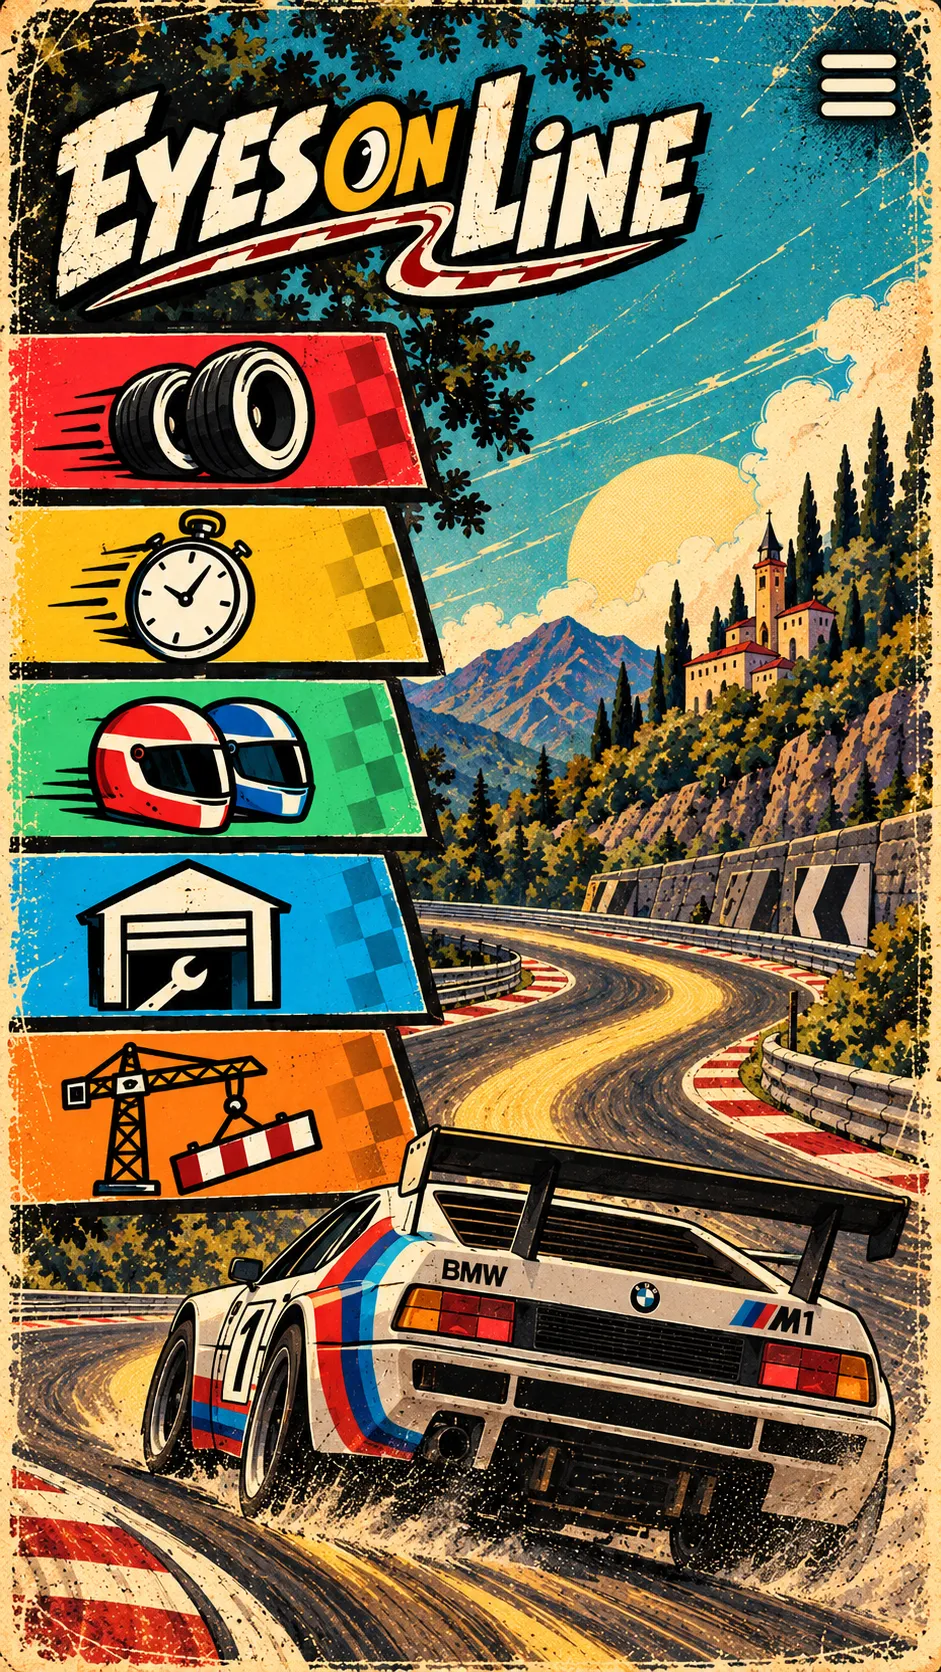
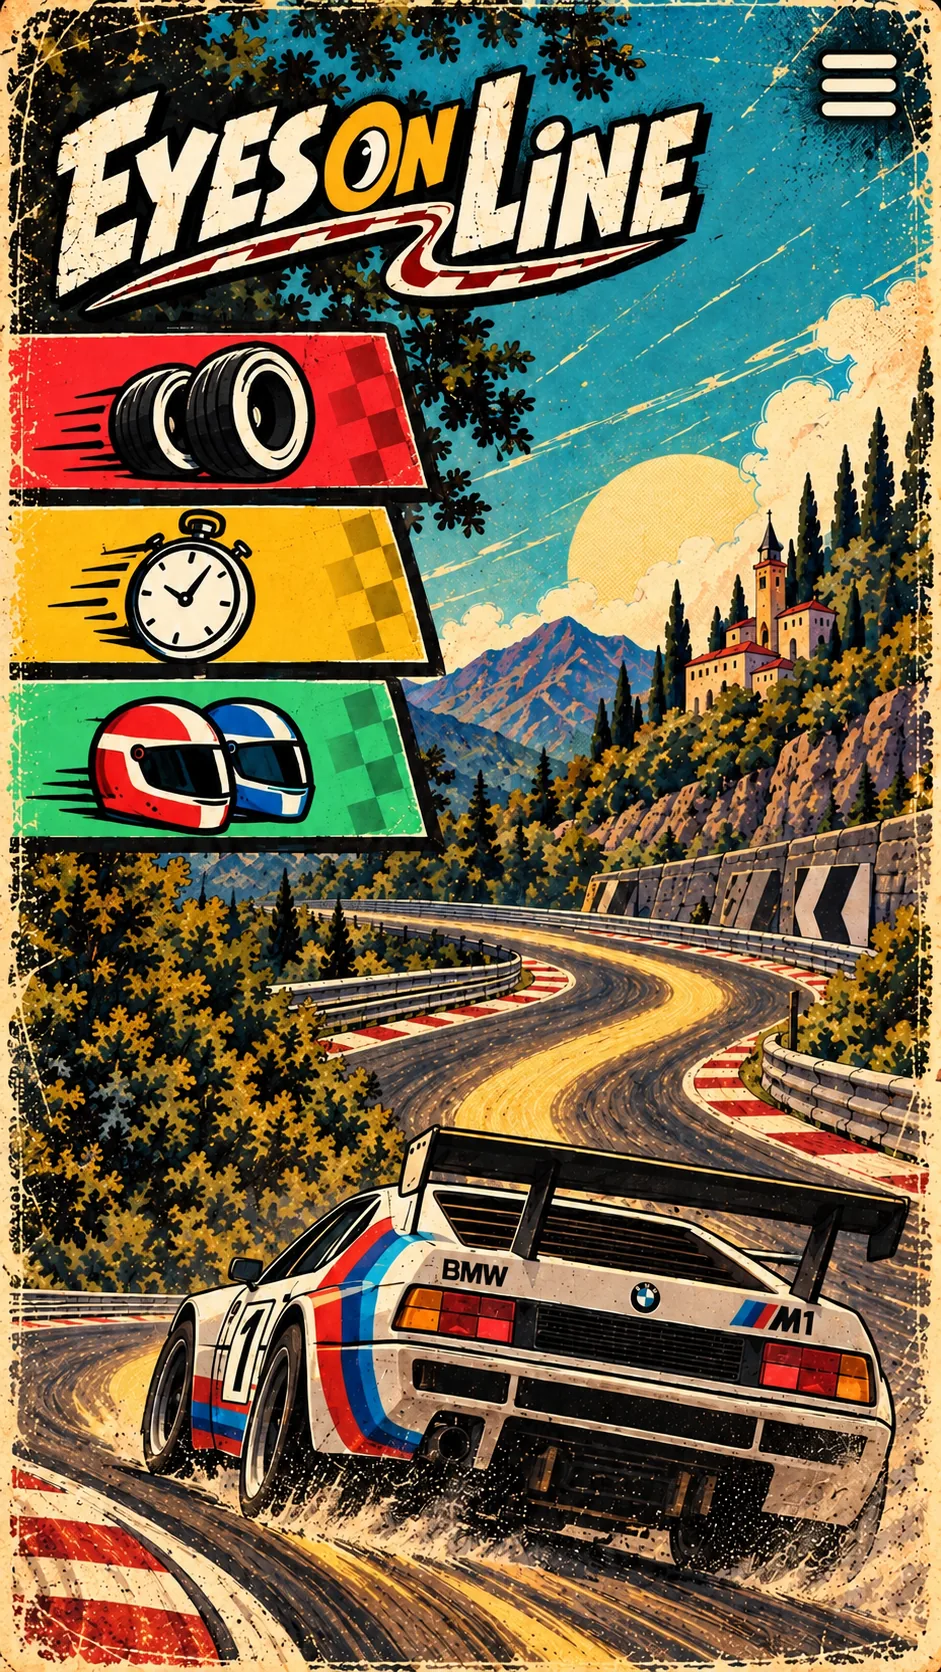
Retirer l'atelier voiture et l'atelier circuits du menu
Le menu passe de cinq bandeaux à trois : course rapide, contre-la-montre,
multijoueurs.

Retirer les deux lignes de `js/ui.js` n'aurait pas suffi. Les bandeaux repliés
sont peints dans le fond — c'est tout l'intérêt du dépliage, le bandeau fermé
est vraiment dessous — donc deux bandeaux seraient restés sur l'affiche sans
mener nulle part. C'est l'affiche elle-même qui est refaite sans eux. Les trois
qui restent n'ont pas bougé d'un pixel : 20,04 / 30,38 / 40,79 %, les mêmes
chiffres qu'avant.

Ce qui est retiré est l'entrée, pas la fonction. `_act` garde ses cas,
`editor.html` et `lignes.html` répondent toujours à leur adresse, les voitures
et les circuits déjà enregistrés se choisissent toujours en course, et les
dessins dépliés dorment dans `art/menu/`. Le lien « éditeur → » de l'écran de
départ part avec : laisser l'atelier à une tape de distance n'aurait rien
désactivé du tout.

Reste le défaut que cette page peut avoir et que rien ne montrait. Les boutons
sont des rectangles transparents posés à des hauteurs écrites à la main ; rien
ne les lie aux bandeaux peints. Refaire l'affiche décale les cibles sans rien
casser ni rien afficher de faux — on clique à côté, et une capture n'en montre
rien puisque les boutons sont invisibles.

`tools/e2e-menu.js` lit donc le fond lui-même, sur une seule colonne, à 6 % du
bord gauche : le seul endroit où un bandeau est une couleur franche et rien
d'autre. Une première version cherchait des bandes sur tout le tiers gauche et
[…]

diff --git a/tools/e2e-menu.js b/tools/e2e-menu.js
@@ -1,20 +1,42 @@
-// Le menu-affiche : les cinq bandeaux, leur dépliage, et ce sur quoi ils mènent.
+// Le menu-affiche : les bandeaux, leur dépliage, et ce sur quoi ils mènent.
 //
 //   NODE_PATH=$(npm root -g) node tools/e2e-menu.js [dossier]
 //
-// Vérifie que les cinq bandeaux sont là et cliquables, que chacun a bien chargé son dessin déplié
+// Vérifie que les bandeaux sont là et cliquables, que chacun a bien chargé son dessin déplié
 // (et non un cadre vide), qu'ils restent REPLIÉS tant qu'on n'y touche pas, qu'un appui en ouvre
-// un seul, et que chacun mène où il doit.
+// un seul, que chacun tombe sur le bandeau peint dans l'affiche, et qu'il mène où il doit.
 const { chromium, devices } = require('playwright');
+const http = require('http');
+const fs = require('fs');
+const path = require('path');
 const out = process.argv[2] || '/tmp';
+
+/* Servi en HTTP, et non depuis le disque.
+
+Sous `file://` toute image vient d'une autre origine, donc la lire dans un canvas est interdit :
+la mesure des bandeaux peints ne peut pas se faire. C'est la même leçon que pour le moteur à
+échantillon, dont la rampe ne se charge pas non plus sous `file://` — un essai qui ne voit pas ce
+qu'il veut mesurer ne mesure rien. Et c'est en HTTP que le jeu est réellement servi. */
+const ROOT = path.join(__dirname, '..');
+const TYPES = { '.html': 'text/html', '.js': 'text/javascript', '.css': 'text/css', '.png': 'image/png',
+  '.webp': 'image/webp', '.json': 'application/json', '.wav': 'audio/wav', '.mp3': 'audio/mpeg' };
+const serveur = http.createServer((req, res) => {
+  const f = path.join(ROOT, decodeURIComponent(req.url.split('?')[0]));
+  if (!f.startsWith(ROOT) || !fs.existsSync(f) || fs.statSync(f).isDirectory()) { res.writeHead(404); return res.end(); }
+  res.writeHead(200, { 'Content-Type': TYPES[path.extname(f)] || 'application/octet-stream' });
+  fs.createReadStream(f).pipe(res);
+});
+
 (async () => {
+  await new Promise((r) => serveur.listen(0, r));
+  const base = `http://127.0.0.1:${serveur.address().port}`;
   const browser = await chromium.launch();
   const ctx = await browser.newContext({ ...devices['iPhone 13'] });
   const page = await ctx.newPage();
   let errs = 0;
   page.on('pageerror', (e) => { if (errs++ < 4) console.log('[pageerror]', e.message); });
   page.on('console', (m) => { if (m.type() === 'error') { errs++; console.log('[console]', m.text()); } });
-  await page.goto('file:///home/user/Slot_car_racing/index.html');
+  await page.goto(`${base}/index.html`);
   await page.waitForTimeout(400);
   await page.keyboard.press('Enter');          // l'écran-titre
 
@@ -51,6 +73,85 @@ const out = process.argv[2] || '/tmp';
     };
   });
   console.log(JSON.stringify(etat, null, 0));
+
+  /* Chaque bouton tombe-t-il sur son bandeau ?
+
+  C'est le seul défaut de ce menu qu'aucune autre vérification ne peut voir. Les bandeaux repliés
+  sont PEINTS dans le fond, et les boutons sont des rectangles transparents posés par-dessus à des
+  hauteurs écrites à la main dans `js/ui.js`. Rien ne lie les deux : refaire l'affiche, ou changer
+  un chiffre, décale les cibles sans rien casser ni rien afficher de faux — on clique simplement à
+  côté, et une capture d'écran n'en montre rien puisque les boutons sont invisibles.
+
+  On lit donc le fond lui-même, sur UNE colonne, à 6 % du bord gauche. C'est le seul endroit où un
+  bandeau est une couleur franche et rien d'autre : plus à droite viennent les traits de vitesse,
+  l'icône, le damier, et une première version qui cherchait des bandes sur tout le tiers gauche se
+  faisait couper par l'icône — elle voyait deux bandeaux sur trois et en inventait un quatrième
+  dans les arbres. Sur cette colonne, un bandeau est une suite de lignes saturées et de couleur
+  CONSTANTE ; c'est la constance qui écarte le vibreur rouge et blanc du bas de l'affiche, texturé
+  (écart-type 72) là où un bandeau est plat (23 au pire).
+
+  Ce détecteur se vérifie lui-même : passé sur l'affiche d'avant, à cinq bandeaux, il retrouve les
+  cinq hauteurs écrites alors dans `ui.js` — 20,2 / 30,4 / 40,9 / 51,3 / 61,8 %.
+
+  Ce qu'on compare est le HAUT du bandeau et le haut du bouton, et pas leur recouvrement : les
+  bandeaux sont des parallélogrammes qui descendent vers la droite, donc sur cette colonne on ne
+  voit que leur début. Or le haut est justement le nombre qu'on écrit à la main. */
+  const cibles = await page.evaluate(() => {
+    const img = document.querySelector('.stage .bg');
+    const c = document.createElement('canvas');
+    c.width = img.naturalWidth; c.height = img.naturalHeight;
+    c.getContext('2d').drawImage(img, 0, 0);
+    const x = Math.round(c.width * 0.06);
+    const d = c.getContext('2d').getImageData(x, 0, 1, c.height).data;
+    const px = (y) => [d[y * 4], d[y * 4 + 1], d[y * 4 + 2]];
+    const bandes = []; let deb = null;
+    const clore = (fin) => {
+      if (deb === null) return;
+      if ((fin - deb) / c.height >= 0.04) {
+        const n = fin - deb;
+        const moy = [0, 1, 2].map((k) => { let t = 0; for (let y = deb; y < fin; y++) t += px(y)[k]; return t / n; });
+        const ec = Math.max(...[0, 1, 2].map((k) => {
+          let t = 0; for (let y = deb; y < fin; y++) { const v = px(y)[k] - moy[k]; t += v * v; }
+          return Math.sqrt(t / n);
+        }));
+        if (ec < 35) bandes.push({ haut: deb / c.height, bas: fin / c.height, ec: +ec.toFixed(1),
+                                   couleur: moy.map((v) => Math.round(v)) });
+      }
+      deb = null;
+    };
+    for (let y = 0; y < c.height; y++) {
+      const [r, g, b] = px(y);
+      const mx = Math.max(r, g, b), mn = Math.min(r, g, b);
+      if (mx - mn > 90 && mx > 110) { if (deb === null) deb = y; } else clore(y);
+    }
+    clore(c.height);
+    const st = document.querySelector('.stage').getBoundingClientRect();
+    const boutons = [...document.querySelectorAll('.screen.poster .mi')].map((b) => {
+      const r = b.getBoundingClientRect();
+      return { haut: (r.top - st.top) / st.height, ou: b.getAttribute('aria-label') };
+    });
+    return { bandes, boutons };
+  });
+  let decales = 0;
+  const pris = new Set();
+  for (const b of cibles.boutons) {
+    let best = -1, ecart = 9;
+    cibles.bandes.forEach((z, i) => { const e = Math.abs(z.haut - b.haut); if (e < ecart) { ecart = e; best = i; } });
+    const bon = ecart <= 0.01;
+    if (bon) pris.add(best); else decales++;
+    console.log(`  ${b.ou.padEnd(18)} bouton à ${(100 * b.haut).toFixed(2)} %, bandeau peint à `
+      + `${best < 0 ? '—' : (100 * cibles.bandes[best].haut).toFixed(2) + ' %'}`
+      + ` → ${(100 * ecart).toFixed(2)} point d'écart`
+      + (bon ? '' : '  ← LE BOUTON N\'EST PAS SUR SON BANDEAU'));
+  }
+  // un bandeau peint que personne ne réclame est une entrée morte imprimée sur l'affiche
+  cibles.bandes.forEach((z, i) => {
+    if (pris.has(i)) return;
+    decales++;
+    console.log(`  bandeau peint à ${(100 * z.haut).toFixed(2)} % rgb(${z.couleur}) SANS BOUTON`
+      + '  ← un bandeau sur l\'affiche qui ne mène nulle part');
+  });
+  if (decales) errs++;
 
   // chaque bandeau mène-t-il où il doit ?
   const routes = [
@@ -120,5 +221,6 @@ const out = process.argv[2] || '/tmp';
 
   console.log('erreurs', errs);
   await browser.close();
+  serveur.close();
   process.exit(errs ? 1 : 0);
 })();

diff --git a/js/ui.js b/js/ui.js
@@ -269,7 +269,7 @@ class UI {
     `, 'center splash');
   }
 
-  /* The menu is the poster, and the five banners on it are the buttons. Each one is printed in
+  /* The menu is the poster, and the banners on it are the buttons. Each one is printed in
   its folded state — icon and a checkered tail, no words — in the background image itself; the
   unfolded artwork, the one that carries the text, is laid over it and wiped in from the left.
   So the fold is not a trick played on one image: the closed banner really is underneath, and the
@@ -279,6 +279,18 @@ class UI {
   from its own artwork. Matching each folded banner's measured height instead looked more rigorous
   and was worse: the icons overhang their bars by different amounts, so those heights disagree by
   ten per cent between banners and the stack came out ragged. */
+  /* L'atelier voiture et l'atelier circuits ne sont plus au menu.
+
+  Un bouton retiré d'une liste laisserait son bandeau peint sur l'affiche, donc un trou de deux
+  bandeaux muets — le fond porte les bandeaux repliés, c'est tout l'intérêt du dépliage. C'est donc
+  l'affiche elle-même qui a été refaite sans eux, et les trois qui restent n'ont pas bougé d'un
+  pixel : 20,04 / 30,38 / 40,79 %, les mêmes qu'avant. `tools/e2e-menu.js` mesure les bandeaux
+  peints dans le fond et vérifie que chaque bouton tombe dessus, ce qui est la seule façon de
+  s'apercevoir qu'un chiffre et un dessin ont cessé de se correspondre.
+
+  Les deux écrans, eux, restent : `_act` garde leurs cas, `editor.html` et `lignes.html` répondent
+  toujours à leur adresse, et les dessins dépliés dorment dans `art/menu/`. Ce qui est retiré est
+  l'entrée du menu, pas la fonction. */
   menu() {
     const t = (k) => this.t(k);
     // top of each banner, as measured on the poster; `fold` is the artwork that carries the text
@@ -286,8 +298,6 @@ class UI {
       { top: 20.04, fold: 'course-rapide', act: 'setup', mode: 'race', label: t('quickRace') },
       { top: 30.38, fold: 'contre-la-montre', act: 'setup', mode: 'timetrial', label: t('timeTrial') },
       { top: 40.79, fold: 'multijoueurs', act: 'multi', label: t('multi') },
-      { top: 51.08, fold: 'atelier-voiture', act: 'workshop', label: t('workshop') },
-      { top: 61.72, fold: 'atelier-circuits', act: 'editor', label: t('editor') },
     ];
     const band = (it, i) => `<button class="mi" style="top:${it.top}%;--i:${i}"
         data-action="${it.act}" ${it.mode ? `data-mode="${it.mode}"` : ''} aria-label="${escapeHtml(it.label)}">
@@ -353,7 +363,10 @@ class UI {
             <img alt="" src="${this.thumb(tr, 90)}"><b>${tr.flag} ${tr.name}</b><small>${locked ? t('locked') : `${lapsFor(tr, cat)} ${t('laps')} · ${tr.length} m`}</small></button>`;
         }).join('')}
       </div>
-      <h3>${t('customTracks')} <button class="link" data-action="editor">${t('editor')} →</button></h3>
+      <!-- Le lien vers l'atelier circuits est retiré avec son bandeau du menu : le laisser ici
+           aurait laissé l'atelier à une tape de distance, et n'aurait donc rien désactivé du tout.
+           La liste des circuits perso reste, elle : ceux déjà enregistrés se choisissent toujours. -->
+      <h3>${t('customTracks')}</h3>
       <div class="grid tracks">
         ${app.custom.tracks.length ? app.custom.tracks.map(tr => `<button class="card ${tr.id === st.trackId ? 'sel' : ''}" data-action="pickTrack" data-id="${tr.id}">
             <img alt="" src="${this.thumb(tr, 90)}"><b>${tr.flag || '🏁'} ${escapeHtml(tr.name)}</b><small>${lapsFor(tr, cat)} ${t('laps')}</small></button>`).join('') : `<p class="muted">${t('noCustomTracks')}</p>`}

diff --git a/index.html b/index.html
@@ -7,28 +7,28 @@
   <meta name="mobile-web-app-capable" content="yes">
   <meta name="theme-color" content="#0f1117">
   <title>Eyes On Line</title>
-  <link rel="stylesheet" href="css/style.css?v=0.21.29">
+  <link rel="stylesheet" href="css/style.css?v=0.21.30">
 </head>
 <body>
   <canvas id="game"></canvas>
   <div id="ui" class="hidden"></div>
 
-  <script src="js/version.js?v=0.21.29"></script>
-  <script src="js/util.js?v=0.21.29"></script>
-  <script src="js/tracks.js?v=0.21.29"></script>
-  <script src="js/track.js?v=0.21.29"></script>
-  <script src="js/cars.js?v=0.21.29"></script>
-  <script src="js/carart.js?v=0.21.29"></script>
-  <script src="js/car.js?v=0.21.29"></script>
-  <script src="js/race.js?v=0.21.29"></script>
-  <script src="js/career.js?v=0.21.29"></script>
-  <script src="js/store.js?v=0.21.29"></script>
-  <script src="js/props.js?v=0.21.29"></script>
-  <script src="js/room-rtc.js?v=0.21.29"></script>
-  <script src="js/net.js?v=0.21.29"></script>
-  <script src="js/render.js?v=0.21.29"></script>
-  <script src="js/audio.js?v=0.21.29"></script>
-  <script src="js/ui.js?v=0.21.29"></script>
-  <script src="js/main.js?v=0.21.29"></script>
+  <script src="js/version.js?v=0.21.30"></script>
+  <script src="js/util.js?v=0.21.30"></script>
+  <script src="js/tracks.js?v=0.21.30"></script>
+  <script src="js/track.js?v=0.21.30"></script>
+  <script src="js/cars.js?v=0.21.30"></script>
+  <script src="js/carart.js?v=0.21.30"></script>
+  <script src="js/car.js?v=0.21.30"></script>
+  <script src="js/race.js?v=0.21.30"></script>
+  <script src="js/career.js?v=0.21.30"></script>
+  <script src="js/store.js?v=0.21.30"></script>
+  <script src="js/props.js?v=0.21.30"></script>
+  <script src="js/room-rtc.js?v=0.21.30"></script>
+  <script src="js/net.js?v=0.21.30"></script>
+  <script src="js/render.js?v=0.21.30"></script>
+  <script src="js/audio.js?v=0.21.30"></script>
+  <script src="js/ui.js?v=0.21.30"></script>
+  <script src="js/main.js?v=0.21.30"></script>
 </body>
 </html>

diff --git a/lignes.html b/lignes.html
@@ -4,7 +4,7 @@
 <meta charset="utf-8">
 <meta name="viewport" content="width=device-width, initial-scale=1">
 <title>Eyes On Line — Éditeur de lignes</title>
-<link rel="stylesheet" href="css/style.css?v=0.21.29">
+<link rel="stylesheet" href="css/style.css?v=0.21.30">
 <style>
   body { overflow: hidden; }
   #ed { position: fixed; inset: 0; display: grid; grid-template-columns: 320px 1fr; }
@@ -92,10 +92,10 @@
   <canvas id="cv"></canvas>
 </div>
 
-<script src="js/store.js?v=0.21.29"></script>
-<script src="js/util.js?v=0.21.29"></script>
-<script src="js/tracks.js?v=0.21.29"></script>
-<script src="js/track.js?v=0.21.29"></script>
-<script src="js/lignes.js?v=0.21.29"></script>
+<script src="js/store.js?v=0.21.30"></script>
+<script src="js/util.js?v=0.21.30"></script>
+<script src="js/tracks.js?v=0.21.30"></script>
+<script src="js/track.js?v=0.21.30"></script>
+<script src="js/lignes.js?v=0.21.30"></script>
 </body>
 </html>

diff --git a/editor.html b/editor.html
@@ -4,7 +4,7 @@
   <meta charset="utf-8">
   <meta name="viewport" content="width=device-width, initial-scale=1">
   <title>Eyes On Line — Éditeur de circuits</title>
-  <link rel="stylesheet" href="css/style.css?v=0.21.29">
+  <link rel="stylesheet" href="css/style.css?v=0.21.30">
   <style>
     body { overflow: hidden; }
     #ed { position: fixed; inset: 0; display: grid; grid-template-columns: 300px 1fr; }
@@ -58,9 +58,9 @@
     </div>
     <canvas id="cv"></canvas>
   </div>
-  <script src="js/util.js?v=0.21.29"></script>
-  <script src="js/track.js?v=0.21.29"></script>
-  <script src="js/store.js?v=0.21.29"></script>
-  <script src="js/editor.js?v=0.21.29"></script>
+  <script src="js/util.js?v=0.21.30"></script>
+  <script src="js/track.js?v=0.21.30"></script>
+  <script src="js/store.js?v=0.21.30"></script>
+  <script src="js/editor.js?v=0.21.30"></script>
 </body>
 </html>

diff --git a/tools/e2e-workshop.js b/tools/e2e-workshop.js
@@ -20,7 +20,10 @@ const out = process.argv[2] || '/tmp';
     const car1 = mk(g => { g.fillStyle = '#ffd400'; g.fillRect(16, 42, 168, 6); g.fillStyle = '#1d2733'; g.fillRect(110, 24, 30, 42); });
     return { base, color, car1 };
   });
-  await page.click('[data-action="workshop"]');
+  /* L'atelier voiture n'a plus de bandeau au menu — il en est sorti avec l'atelier circuits — mais
+  l'écran est resté, et les voitures déjà enregistrées se choisissent toujours en course. On y entre
+  donc par son action plutôt que par un bouton qui n'existe plus. */
+  await page.evaluate(() => app.ui.workshopScreen());
   await page.waitForTimeout(300);
   await page.fill('#ws-name', 'Proto Test');
   await page.selectOption('#ws-cat', 'gt');

diff --git a/css/style.css b/css/style.css
@@ -36,7 +36,7 @@ canvas#game { position: fixed; inset: 0; display: block; touch-action: none; use
 .screen.poster .version { position: absolute; bottom: max(8px, env(safe-area-inset-bottom)); right: 10px; margin: 0; opacity: 1;
   background: rgba(10, 12, 20, 0.62); color: #dfe3ea; padding: 3px 9px; border-radius: 999px; }
 
-/* Les cinq bandeaux. Un seul bord gauche, une seule largeur ; la hauteur de chacun suit son propre
+/* Les bandeaux. Un seul bord gauche, une seule largeur ; la hauteur de chacun suit son propre
    dessin. Le bouton n'a ni fond ni bordure : ce qu'on voit est l'affiche dessous et le bandeau
    déplié dessus. */
 /* Le bouton a la taille du bandeau REPLIÉ, celui qui est imprimé dans l'affiche : c'est lui qu'on

diff --git a/js/version.js b/js/version.js
@@ -11,5 +11,5 @@ browser to fetch the new files.
 */
 'use strict';
 
-const APP_VERSION = '0.21.29';
+const APP_VERSION = '0.21.30';
 const APP_DATE = '2026-09-28';

diff --git a/README.md b/README.md
@@ -909,7 +909,7 @@ s'efface pour lui. Les scripts de test passent l'écran comme un joueur, par une
 
 ## Le menu-affiche
 
-Le menu est une affiche, `art/menu-bg.webp`, et les cinq bandeaux posés dessus sont les boutons.
+Le menu est une affiche, `art/menu-bg.webp`, et les bandeaux posés dessus sont les boutons.
 Chacun y est **imprimé replié** — l'icône et une amorce à damier, sans mot. Le dessin déplié, celui
 qui porte le texte, est posé par-dessus et se découvre de la gauche vers la droite.
 
@@ -917,7 +917,7 @@ Le pli n'est donc pas un tour joué à une seule image : le bandeau fermé est v
 bandeau ouvert le recouvre vraiment, et c'est pour cela qu'il n'y a rien eu à effacer de
 l'affiche.
 
-**Un bandeau ne s'ouvre qu'à l'appui.** Au repos, le menu est exactement la maquette : cinq
+**Un bandeau ne s'ouvre qu'à l'appui.** Au repos, le menu est exactement la maquette : des
 bandeaux repliés, une icône chacun, pas un mot. Le dépliage est la réponse à l'appui, et le mot
 qu'il découvre dit sur lequel on a appuyé ; l'écran ne change qu'ensuite, 430 ms plus tard. Sous
 `prefers-reduced-motion` le bandeau s'ouvre sans transition et l'action part aussitôt — attendre
@@ -935,8 +935,50 @@ bandeau à l'autre, et la pile sortait de travers — une des versions dépassai
 l'affiche.
 
 Le hamburger est dessiné dans l'affiche ; il ne reste qu'à poser la cible au-dessus, un peu plus
-large que lui pour qu'un pouce la trouve. `tools/e2e-menu.js` vérifie les cinq bandeaux, le
-chargement réel de chaque image, le dépliage, et l'endroit où mène chaque bouton.
+large que lui pour qu'un pouce la trouve. `tools/e2e-menu.js` vérifie les bandeaux, le chargement
+réel de chaque image, le dépliage, et l'endroit où mène chaque bouton.
+
+### Retirer une entrée, c'est refaire l'affiche
+
+L'atelier voiture et l'atelier circuits ont quitté le menu. Retirer les deux lignes de `js/ui.js`
+n'aurait pas suffi : les bandeaux repliés sont **peints dans le fond**, c'est tout l'intérêt du
+dépliage, et deux bandeaux seraient restés sur l'affiche sans mener nulle part. C'est donc
+l'affiche elle-même qui a été refaite sans eux. Les trois qui restent n'ont pas bougé d'un pixel —
+20,04 / 30,38 / 40,79 %, les mêmes chiffres qu'avant.
+
+Ce qui a été retiré est l'entrée, pas la fonction : `_act` garde ses cas, `editor.html` et
+`lignes.html` répondent toujours à leur adresse, les voitures et les circuits déjà enregistrés se
+choisissent toujours en course, et les dessins dépliés dorment dans `art/menu/`. Le lien « éditeur
+→ » de l'écran de départ est parti avec, lui aussi : laisser l'atelier à une tape de distance
+n'aurait rien désactivé du tout.
+
+**Le défaut que cette page peut avoir, et que rien ne montrait.** Les boutons sont des rectangles
+transparents posés à des hauteurs écrites à la main. Rien ne les lie aux bandeaux peints : refaire
+l'affiche, ou changer un chiffre, décale les cibles sans rien casser ni rien afficher de faux. On
+clique simplement à côté, et une capture d'écran n'en montre rien puisque les boutons sont
+invisibles.
+
+`tools/e2e-menu.js` lit donc le fond lui-même, sur **une seule colonne**, à 6 % du bord gauche.
+C'est le seul endroit où un bandeau est une couleur franche et rien d'autre : plus à droite
+viennent les traits de vitesse, l'icône, le damier. Une première version cherchait des bandes sur
+tout le tiers gauche et se faisait couper par les icônes — elle voyait deux bandeaux sur trois et
+en inventait un quatrième dans les arbres. Sur cette colonne, un bandeau est une suite de lignes
+saturées et de couleur **constante**, et c'est la constance qui écarte le vibreur rouge et blanc du
+bas de l'affiche : texturé, écart-type 72, là où un bandeau est plat, 23 au pire.
+
+Le détecteur se vérifie lui-même de deux façons. Passé sur l'affiche d'avant, à cinq bandeaux, il
+retrouve les cinq hauteurs qui étaient alors écrites dans `ui.js` — 20,2 / 30,4 / 40,9 / 51,3 /
+61,8 %. Et remettre cette affiche-là fait échouer l'essai en nommant les deux bandeaux devenus
+orphelins. Un contrôle qui ne sait pas échouer ne contrôle rien.
+
+Ce qu'il compare est le **haut** du bandeau et le haut du bouton, et non leur recouvrement : les
+bandeaux sont des parallélogrammes qui descendent vers la droite, donc sur cette colonne on ne voit
+que leur début — or le haut est justement le nombre qu'on écrit à la main. Les trois tombent à
+0,12 point près.
+
+Cette vérification a demandé une autre correction, déjà apprise sur le moteur à échantillon : sous
+`file://` toute image vient d'une autre origine, donc la lire dans un canvas est interdit. L'essai
+sert maintenant le dossier en HTTP, comme le fait GitHub Pages.
 
 ## Nombre de tours
 
